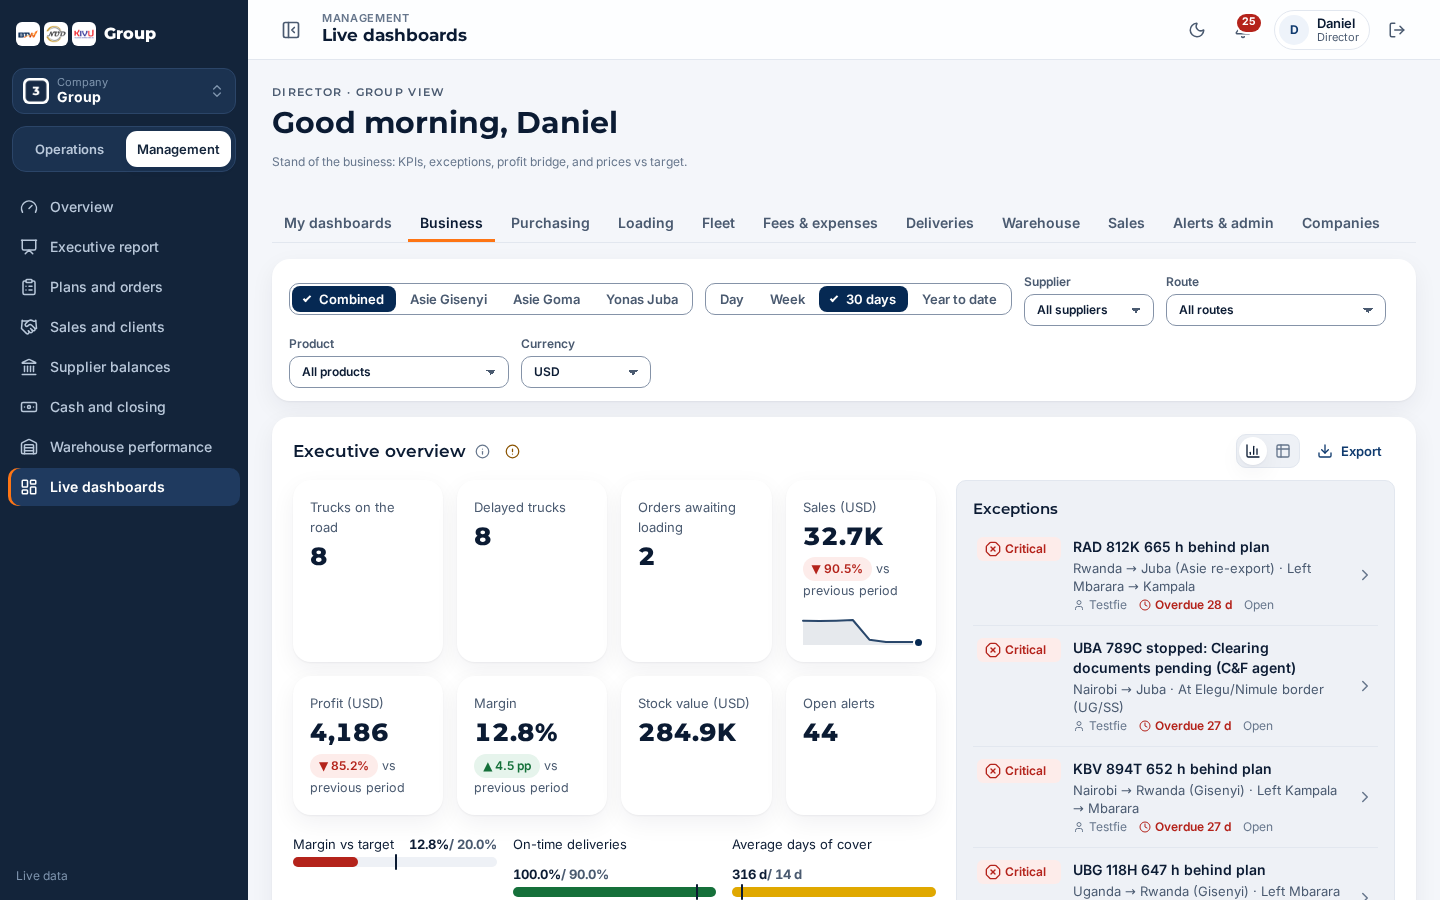
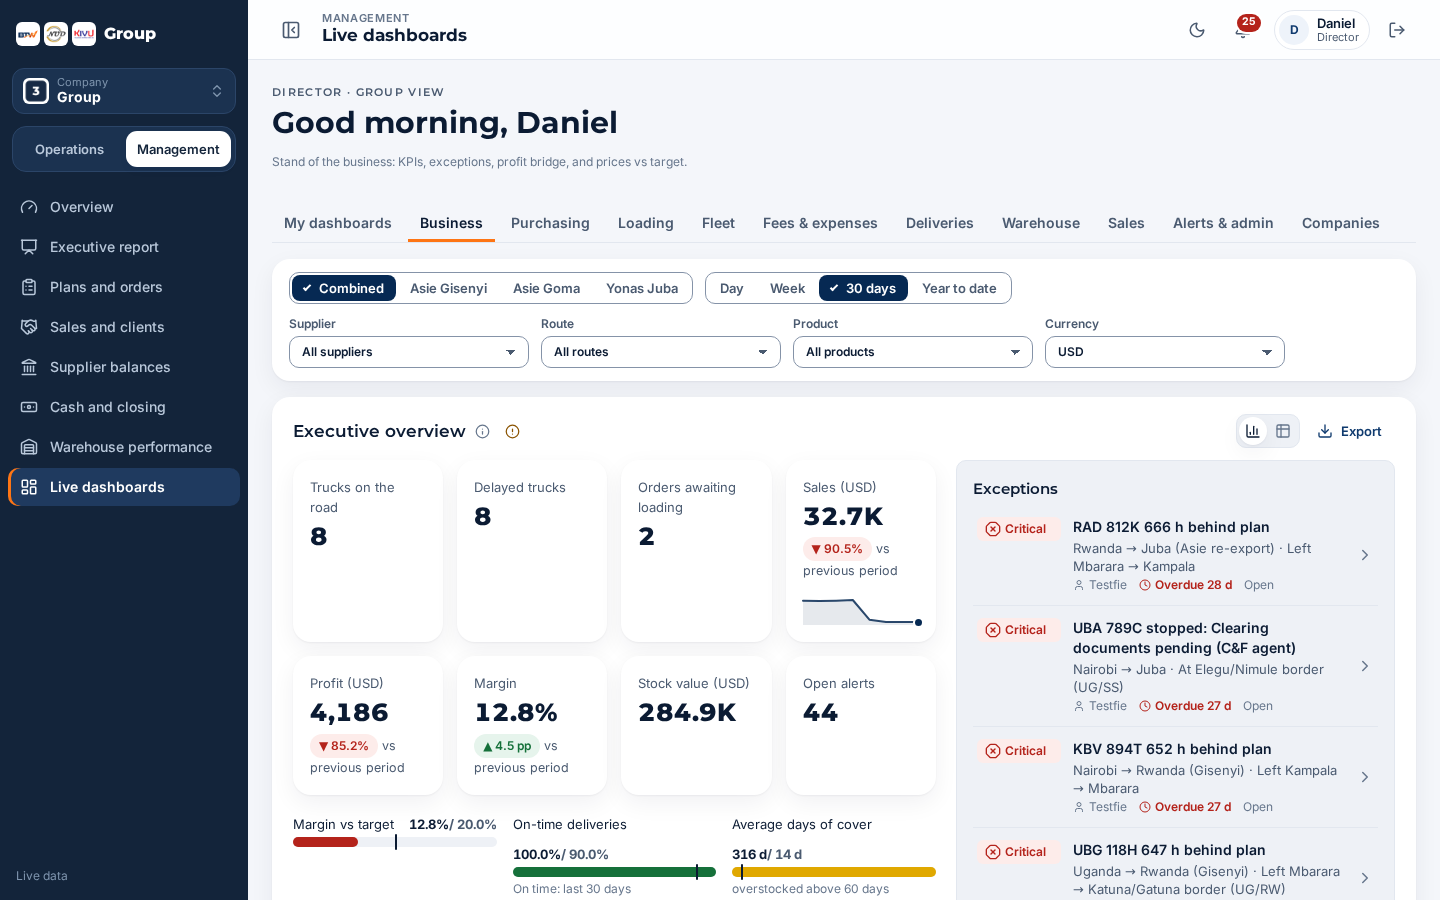
fix(v3-dashboards): keep the Live dashboard filter bar to two rows (V3-11)
Warehouse and period stay on the first row. Supplier, route, product and currency sit side by side on the second.

diff --git a/apps/web/src/screens/dash/Filters.svelte b/apps/web/src/screens/dash/Filters.svelte
@@ -90,34 +90,48 @@
   </div>
 {:else}
   <div class="fbar card" role="group" aria-label="Dashboard filters">
-    <div class="sel-seg" role="group" aria-label="Warehouse">
-      <button type="button" aria-pressed={!filter.warehouseId} onclick={() => set('warehouseId', '')}>Combined</button>
-      {#each sorted('warehouses') as id (id)}<button type="button" aria-pressed={filter.warehouseId === id} onclick={() => set('warehouseId', id)}>{name.warehouses(id)}</button>{/each}
+    <div class="fbar-row">
+      <div class="sel-seg" role="group" aria-label="Warehouse">
+        <button type="button" aria-pressed={!filter.warehouseId} onclick={() => set('warehouseId', '')}>Combined</button>
+        {#each sorted('warehouses') as id (id)}<button type="button" aria-pressed={filter.warehouseId === id} onclick={() => set('warehouseId', id)}>{name.warehouses(id)}</button>{/each}
+      </div>
+      <div class="sel-seg" role="group" aria-label="Period">
+        {#each BAR as c (c.key)}<button type="button" aria-pressed={preset === c.key} onclick={() => setPreset(c.key)}>{c.label}</button>{/each}
+      </div>
     </div>
-    <div class="sel-seg" role="group" aria-label="Period">
-      {#each BAR as c (c.key)}<button type="button" aria-pressed={preset === c.key} onclick={() => setPreset(c.key)}>{c.label}</button>{/each}
+    <div class="fbar-row picks">
+      {#each extra as f (f.k)}
+        {#if (options?.[f.o]?.length ?? 0) > 1 || filter[f.k]}
+          <label>{f.label}
+            <select class="select" value={filter[f.k] ?? ''} onchange={(e) => set(f.k, e.currentTarget.value)}><option value="">{f.all}</option>{#each sorted(f.o) as id}<option value={id}>{name[f.o](id)}</option>{/each}</select>
+          </label>
+        {/if}
+      {/each}
+      {#if money}<label>Currency <select class="select" value={currency.code} onchange={(e) => setCurrency(e.currentTarget.value)}>{#each CODES as c}<option>{c}</option>{/each}</select></label>{/if}
+      {#if any}<button class="btn btn-ghost btn-sm" type="button" onclick={reset}>Clear</button>{/if}
     </div>
-    {#each extra as f (f.k)}
-      {#if (options?.[f.o]?.length ?? 0) > 1 || filter[f.k]}
-        <label>{f.label}
-          <select class="select" value={filter[f.k] ?? ''} onchange={(e) => set(f.k, e.currentTarget.value)}><option value="">{f.all}</option>{#each sorted(f.o) as id}<option value={id}>{name[f.o](id)}</option>{/each}</select>
-        </label>
-      {/if}
-    {/each}
-    {#if money}<label>Currency <select class="select" value={currency.code} onchange={(e) => setCurrency(e.currentTarget.value)}>{#each CODES as c}<option>{c}</option>{/each}</select></label>{/if}
-    {#if any}<button class="btn btn-ghost btn-sm" type="button" onclick={reset}>Clear</button>{/if}
   </div>
 {/if}
 
 <style>
   .fbar {
     display: flex;
-    flex-wrap: wrap;
-    align-items: center;
-    gap: var(--space-2) var(--space-3);
+    flex-direction: column;
+    align-items: stretch;
+    gap: 10px;
     padding: var(--space-3) var(--space-4);
     margin-top: var(--space-3);
   }
+  .fbar-row {
+    display: flex;
+    flex-wrap: wrap;
+    align-items: center;
+    gap: var(--space-2) var(--space-3);
+  }
+  .picks { align-items: flex-end; flex-wrap: nowrap; }
+  .fbar label { flex: 1 1 0; min-width: 0; max-width: 240px; }
+  .fbar .select { width: 100%; min-width: 0; max-width: none; }
+  .fbar .btn { align-self: flex-end; flex: none; }
   .embed {
     display: grid;
     grid-template-columns: repeat(auto-fill, minmax(160px, 1fr));
@@ -146,15 +160,14 @@
     margin-top: var(--space-1);
   }
   .fbar .sel-seg { flex-wrap: wrap; max-width: 100%; }
-  @media (max-width: 600px) {
+  @media (max-width: 720px) {
     .select {
       min-width: 0;
       width: 100%;
       max-width: none;
     }
-    .fbar label {
-      flex: 1 1 45%;
-    }
+    .picks { flex-wrap: wrap; }
+    .fbar label { flex: 1 1 45%; max-width: none; }
     .embed {
       grid-template-columns: 1fr;
     }

diff --git a/docs/work/plans/V3-11.md b/docs/work/plans/V3-11.md
@@ -32,6 +32,7 @@ The Live dashboards (Home tabs) read like the Management report: a calm grid of 
 | 26 Nov | D-1 narrow Fleet headers | the title had no overflow rule, so it painted over the info and recommendation icons; chart, table and export stayed on that same row | `DashboardPanel.svelte`: title is one line with an ellipsis (full text on the heading), and below 460px the tools wrap onto the next row | `live-dashboards.mjs` at 1440: Delayed trucks, Truck issues and Driver status updates are one line, icons do not intersect the title, tools sit on the next row | ✅ |
 | 26 Nov | Border heatmap labels | nine long stop names drawn in a straight line across a half-width card | `Heatmap.svelte`: ticks drop the country note and the words border / weighbridge, then turn vertical when there are many columns; the chart grows so the rows are not clipped | `live-dashboards.mjs`: 9 labels (Katuna/Gatuna … Athi River), 0 overlaps | ✅ |
 | 26 Nov | LD-2 / LD-3 report layout on the other tabs | feature tabs used a filter icon and stretched a lone card across the row; Business KPIs did not match the report cards | `report.css` plus the warehouse and period bar on every feature tab; Business KPIs use the report card (label, value, change chip, spark); each card shows an items chip and the method at the bottom; a short card stays one column. Fleet still fits the screen | `live-dashboards.mjs`: Fleet still fits; Business, Purchasing, Loading, Fees, Deliveries, Warehouse, Sales and Alerts each show the bar, cards and method text, with no page errors. Week and a warehouse chip both select | ✅ |
+| 26 Nov | Filter bar too tall | supplier, route, product and currency each took their own line, with empty space beside them | the bar is two rows on every Live dashboard tab: warehouse and period chips, then the selects side by side | `live-dashboards.mjs`: Fleet and the eight other tabs, bar is 2 rows, selects on 1 line, 122px tall. Fleet still fits | ✅ |
 
 ## Screenshots
 | Screen | Before | After |
@@ -49,7 +50,7 @@ The Live dashboards (Home tabs) read like the Management report: a calm grid of 
 
 ## Handover
 - **Last commit:** report layout on the other Live dashboard tabs, branch `v3/V3-11-report-layout`.
-- **Done:** V3-11a, LD-1, narrow Fleet headers, heatmap labels, LD-2 / LD-3 (report bar, KPI cards, paired grid, chips, method text). Fleet fit kept.
+- **Done:** V3-11a, LD-1, narrow Fleet headers, heatmap labels, LD-2 / LD-3 (report bar, KPI cards, paired grid, chips, method text). The filter bar is two rows on every tab. Fleet fit kept.
 - **Half-done:** nothing.
 - **Next step:** none on this row. V3-10 continues with Supplier balances.
 - **Run first:** `node tests/design-v3/live-dashboards.mjs http://localhost:5242/ docs/work/shots/V3-11`
